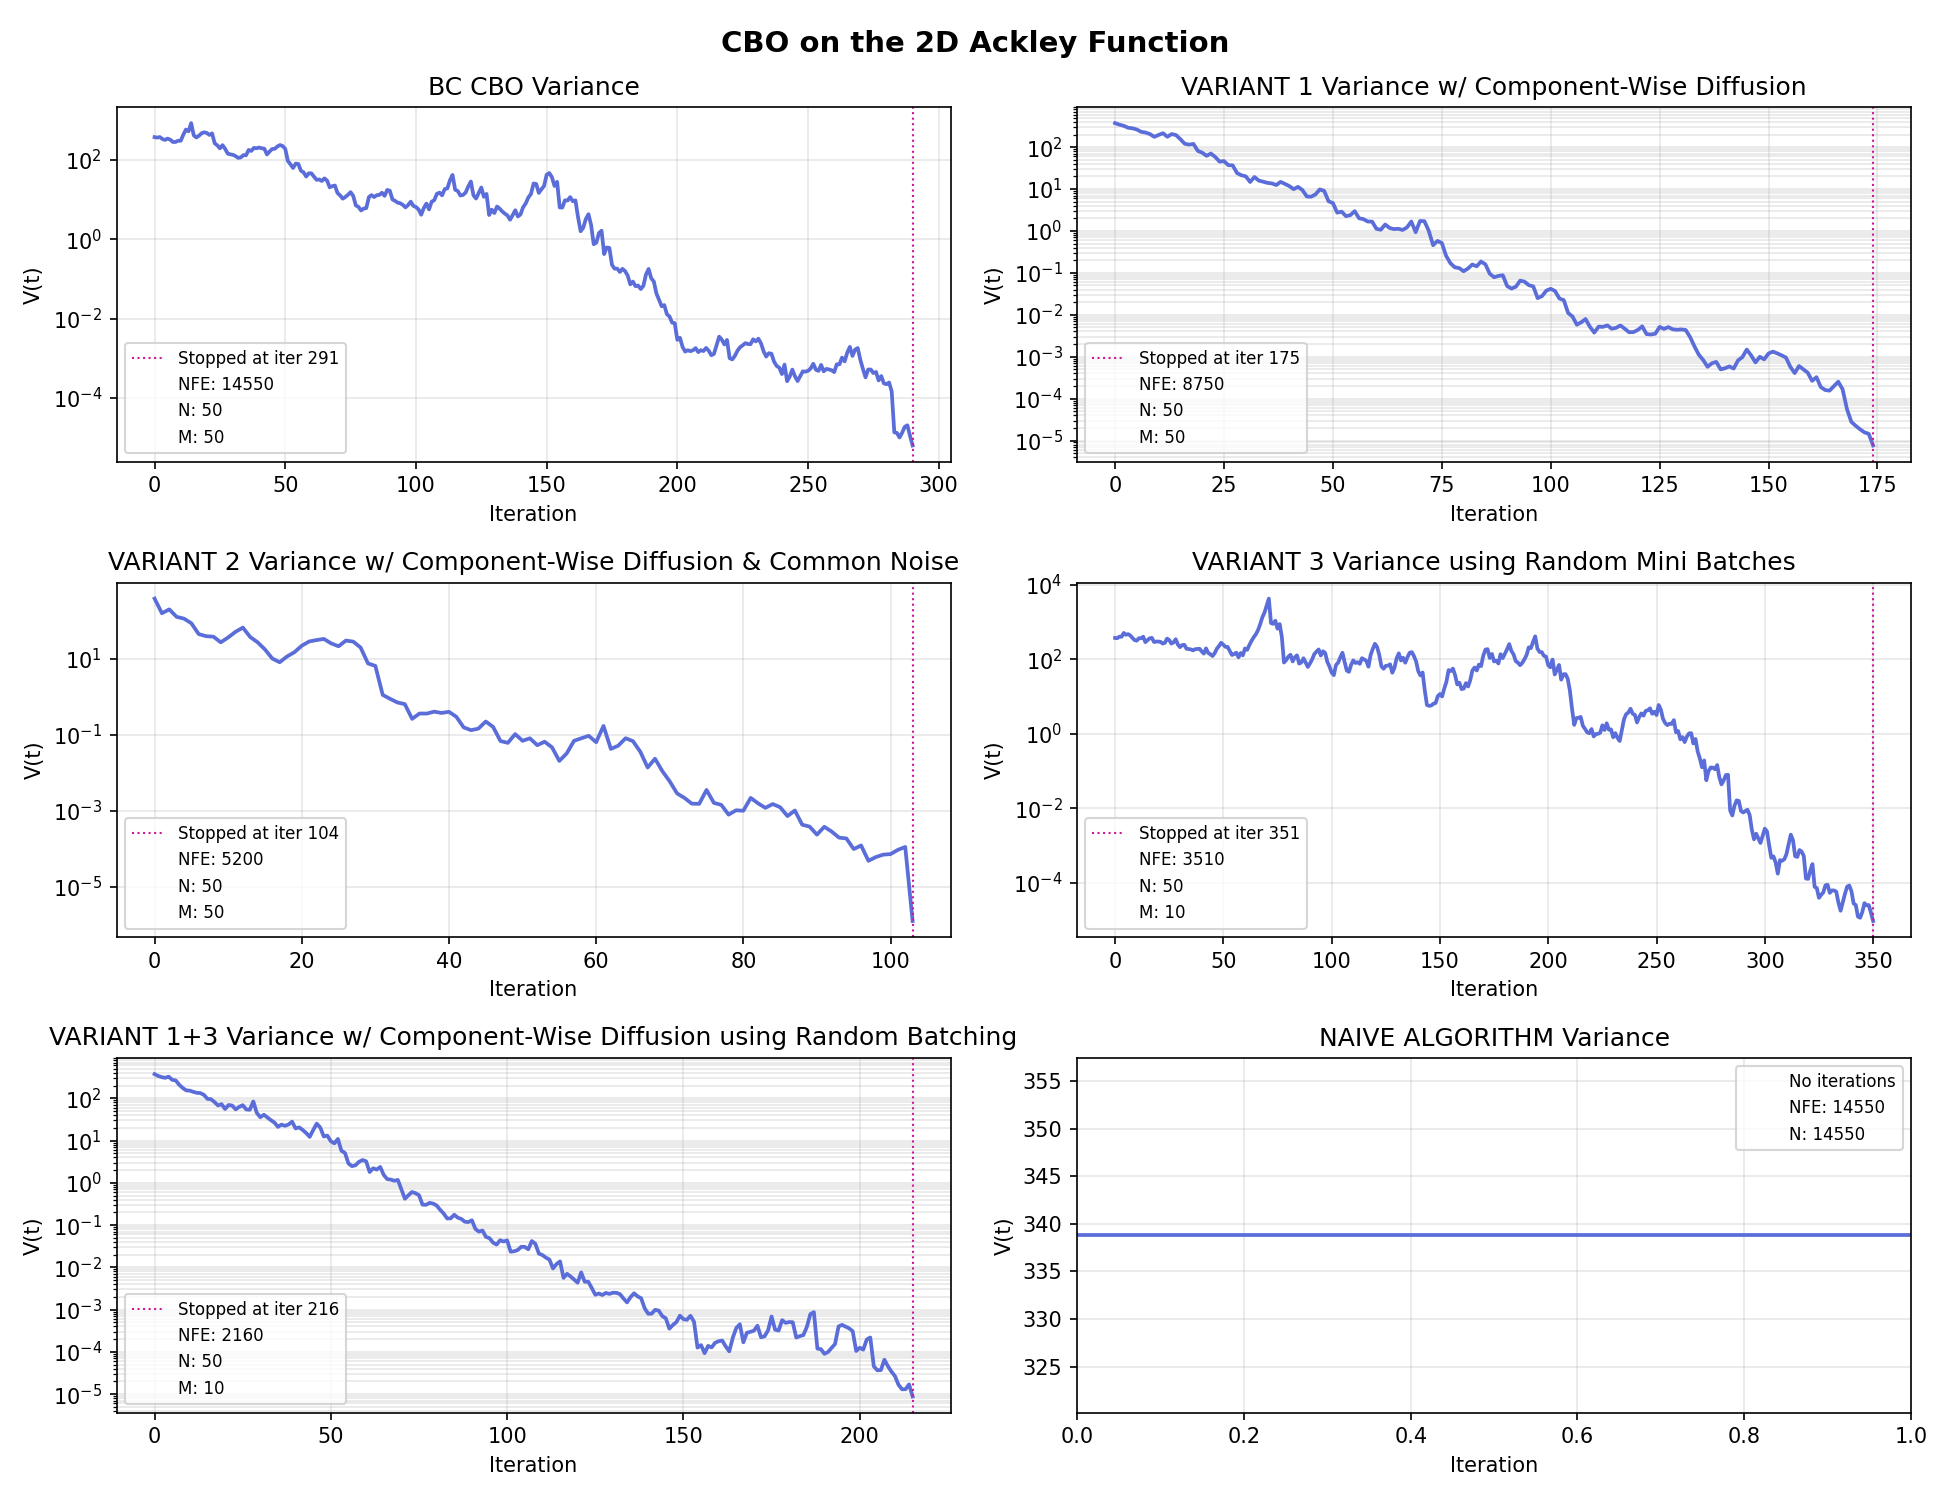
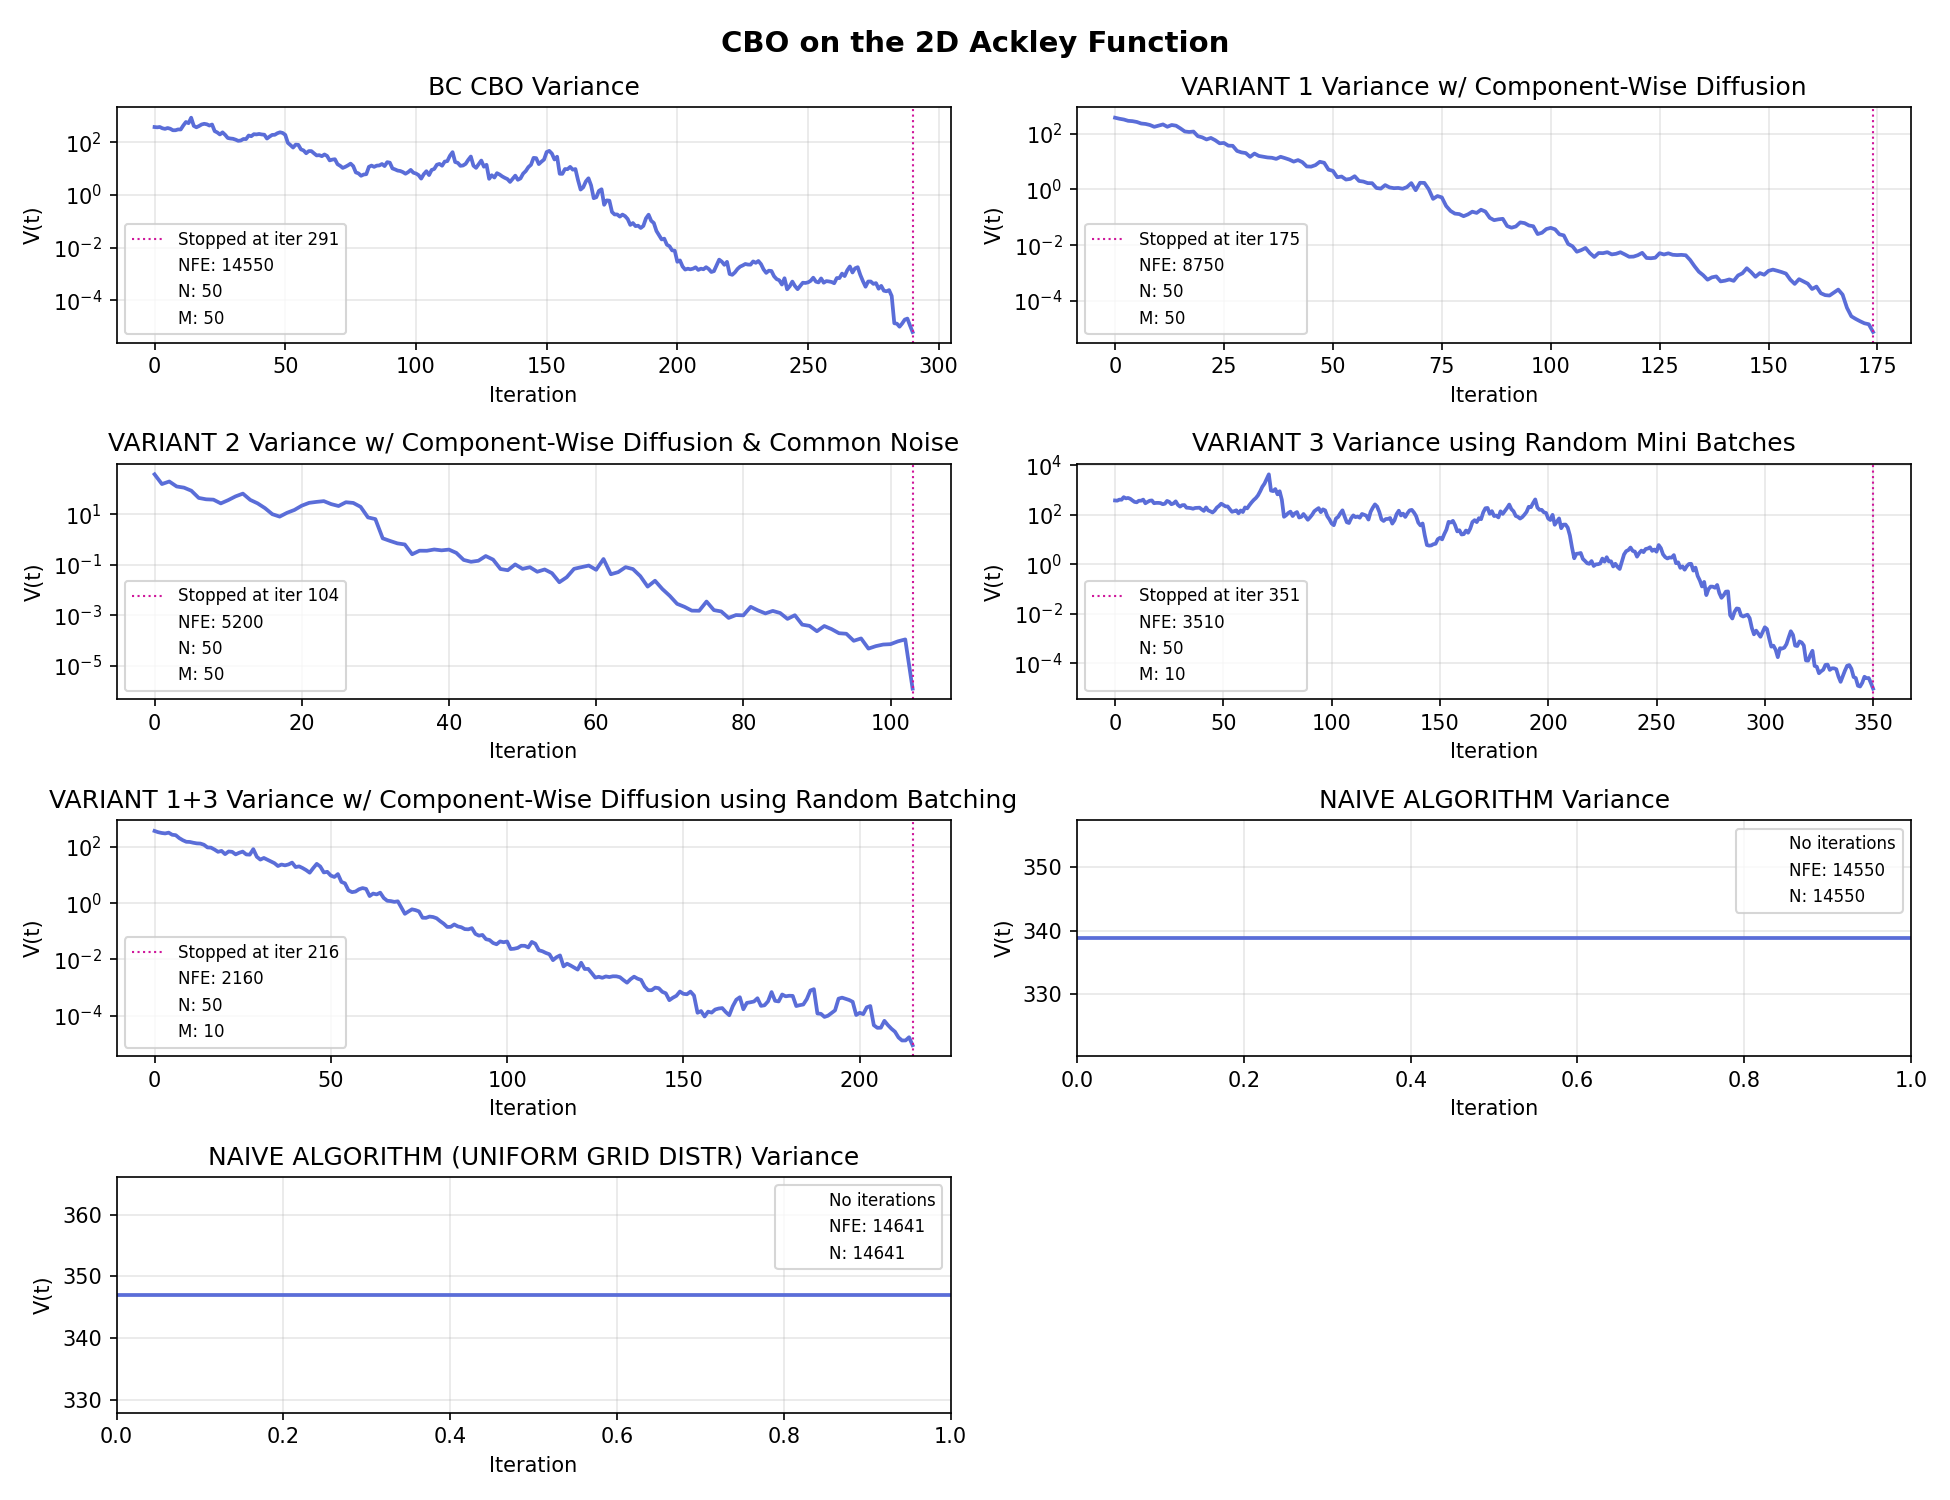
Naive Algorithm (uniform grid distribution) grid additions

diff --git a/bc_algorithms.py b/bc_algorithms.py
@@ -160,14 +160,36 @@ def cbo(f, d, domain=(-32,32), n_particles=50, lam=1.0, sigma=1.0, alpha=30.0, d
 
     return (x[best_idx], best_val_hist[-1], np.array(consensus_hist), np.array(particle_hist), np.array(obj_val_hist), np.array(best_val_hist), np.array(variance_hist))
 
-def naive(f, d, domain=(-32,32), n_particles=50):
+def naive(f, d, domain=(-32,32), n_particles=50, seed=0):
     _, _, consensus_hist, _, _, _, _ = cbo(f, d)
     n_iters = len(consensus_hist)
     NFE_comp_cost = n_particles * n_iters
 
-    rng = np.random.default_rng(0) # set up seeded random num generator
+    rng = np.random.default_rng(seed) # set up seeded random num generator
     lo, hi = domain
     x = rng.uniform(lo, hi, size=(NFE_comp_cost, d)) # x = (x_1, x_2, ..., x_n)
+
+    f_vals = f(x)
+    best_idx = np.argmin(f_vals) # index of lowest f val
+
+    # Variance history
+    mean = x.mean(axis=0) # expectation: average all part points
+    v = 0.5*np.mean(np.sum((x-mean)**2, axis=1)) # variance
+
+    # return best part pos, best obj val, num of iterations
+    return (x[best_idx], f_vals[best_idx], np.array(x), np.array(f_vals), len(f_vals), v)
+
+def naive_uniform(f, d, domain=(-32,32), n_particles=50):
+    _, _, consensus_hist, _, _, _, _ = cbo(f, d)
+    n_iters = len(consensus_hist)
+    NFE_comp_cost = n_particles * n_iters
+
+    # generate uniform grid of points
+    lo, hi = domain
+    pts_per_dim = round(NFE_comp_cost ** (1/d)) # same num of pts on each axis
+    lin = np.linspace(lo, hi, pts_per_dim)
+    mesh = np.meshgrid(*([lin] * d))
+    x = np.stack([m.ravel() for m in mesh], axis=1) # shape: (pts_per_dim**d, d)
 
     f_vals = f(x)
     best_idx = np.argmin(f_vals) # index of lowest f val
@@ -194,6 +216,17 @@ if __name__ == "__main__": # runs when this is the main file of this execution
     print("NAIVE ALGORITHM RESULTS")
 
     best_x_naive, best_val_naive, x_positions_naive, f_vals_naive, n_part_naive, variance = naive(ackley, d=2)
+
+    print(f"Best x position found: {best_x_naive}")
+    print(f"Best f(x): {best_val_naive:.6f}")
+    print(f"num particles: {len(x_positions_naive)})")
+    print(f"Variance: {variance}")
+    print("True minimum: f(0,0) = 0")
+
+    print("---------------------------------------")
+    print("NAIVE ALGORITHM (UNIFORM DISTR) RESULTS")
+
+    best_x_naive, best_val_naive, x_positions_naive, f_vals_naive, n_part_naive, variance = naive_uniform(ackley, d=2)
 
     print(f"Best x position found: {best_x_naive}")
     print(f"Best f(x): {best_val_naive:.6f}")

diff --git a/trajectories_plot.py b/trajectories_plot.py
@@ -3,7 +3,7 @@ import matplotlib.pyplot as plt
 import matplotlib.colors as mcolors
 import matplotlib.patches as mpatches
 
-from bc_algorithms import ackley, cbo, naive
+from bc_algorithms import ackley, cbo, naive, naive_uniform
 from variant_1 import component_wise_diff
 from variant_2 import common_noise
 from variant_3 import random_mini_batch
@@ -53,12 +53,12 @@ def particle_hist(ax, particle_hist, m_size=50):
     ax.legend(handles=handles + [info1, info2], fontsize=8, loc="upper right")
 
 # NAIVE POINT PLOT
-def naive_part_plot(ax):
+def naive_part_plot(ax, f=naive):
     _, _, Z = grid(res=300)
     # draw 2d array heatmap
     ax.imshow(Z, extent=[-32, 32, -32, 32], origin="lower", cmap="Blues", aspect="equal", norm=mcolors.PowerNorm(gamma=0.4,vmin=0,vmax=22))
 
-    best_x, best_val, x_positions, f_vals, n_particles, variance = naive(ackley, d=2)
+    best_x, best_val, x_positions, f_vals, n_particles, variance = f(ackley, d=2)
     ax.scatter(x_positions[:,0], x_positions[:,1], color="orange", s=0.5) # plot individual points
     ax.scatter(best_x[0], best_x[1], color="red", s=12, label="min f(x)")
 
@@ -74,16 +74,17 @@ def naive_part_plot(ax):
 
 def main():
     # create blank canvas
-    fig = plt.figure(figsize=(13,10))
+    fig = plt.figure(figsize=(15,15))
     fig.suptitle("CBO on the 2D Ackley Function", fontsize=14, fontweight="bold")
 
     # 2x2 figure panels
-    ax1 = fig.add_subplot(3,2,1)
-    ax2 = fig.add_subplot(3,2,2)
-    ax3 = fig.add_subplot(3,2,3)
-    ax4 = fig.add_subplot(3,2,4)
-    ax5 = fig.add_subplot(3,2,5)
-    ax6 = fig.add_subplot(3,2,6)
+    ax1 = fig.add_subplot(4,2,1)
+    ax2 = fig.add_subplot(4,2,2)
+    ax3 = fig.add_subplot(4,2,3)
+    ax4 = fig.add_subplot(4,2,4)
+    ax5 = fig.add_subplot(4,2,5)
+    ax6 = fig.add_subplot(4,2,6)
+    ax7 = fig.add_subplot(4,2,7)
 
     # plot graphs
 
@@ -105,6 +106,8 @@ def main():
     ax5.set_title("VARIANT 1+3: Particle Trajectories w/ Component-Wise Diffusion using Random Batching")
 
     naive_part_plot(ax6)
+    naive_part_plot(ax7, f=naive_uniform)
+    ax7.set_title("NAIVE ALGORITHM (UNIFORM GRID DISTR) Particle Positions")
 
     plt.tight_layout()
     plt.savefig("trajectories_plot.png", dpi=150)

diff --git a/variance_plot.py b/variance_plot.py
@@ -3,7 +3,7 @@ import matplotlib.pyplot as plt
 import matplotlib.colors as mcolors
 import matplotlib.patches as mpatches
 
-from bc_algorithms import ackley, cbo, naive
+from bc_algorithms import ackley, cbo, naive, naive_uniform
 from variant_1 import component_wise_diff
 from variant_2 import common_noise
 from variant_3 import random_mini_batch
@@ -28,8 +28,8 @@ def variance_hist(ax, var_hist, n_iters, n_particles=50, m_size=50):
     info3 = mpatches.Patch(color='none', label=f'M: {m_size}')
     ax.legend(handles=handles + [info1, info2, info3], fontsize=8)
 
-def variance_naive(ax):
-    best_x, best_val, x_positions, f_vals, n_particles, variance = naive(ackley, d=2)
+def variance_naive(ax, f=naive):
+    best_x, best_val, x_positions, f_vals, n_particles, variance = f(ackley, d=2)
     # draw horizontal line to compare best_val to other graphs
     ax.axhline(y=variance, color="#5A6DD8", linestyle="-", linewidth=1.8, label=(""))
     ax.set_title("NAIVE ALGORITHM Variance")
@@ -49,12 +49,13 @@ def main():
     fig.suptitle("CBO on the 2D Ackley Function", fontsize=14, fontweight="bold")
 
     # 2x2 figure panels
-    ax1 = fig.add_subplot(3,2,1)
-    ax2 = fig.add_subplot(3,2,2)
-    ax3 = fig.add_subplot(3,2,3)
-    ax4 = fig.add_subplot(3,2,4)
-    ax5 = fig.add_subplot(3,2,5)
-    ax6 = fig.add_subplot(3,2,6)
+    ax1 = fig.add_subplot(4,2,1)
+    ax2 = fig.add_subplot(4,2,2)
+    ax3 = fig.add_subplot(4,2,3)
+    ax4 = fig.add_subplot(4,2,4)
+    ax5 = fig.add_subplot(4,2,5)
+    ax6 = fig.add_subplot(4,2,6)
+    ax7 = fig.add_subplot(4,2,7)
 
     # plot graphs
     _, _, _, _, _, _, cbo_var_hist = cbo(ackley, d=2, seed=0)
@@ -76,6 +77,8 @@ def main():
     ax5.set_title("VARIANT 1+3 Variance w/ Component-Wise Diffusion using Random Batching")
 
     variance_naive(ax6)
+    variance_naive(ax7, f=naive_uniform)
+    ax7.set_title("NAIVE ALGORITHM (UNIFORM GRID DISTR) Variance")
 
     plt.tight_layout()
     plt.savefig("variance_plot.png", dpi=150)

diff --git a/obj_val_plot.py b/obj_val_plot.py
@@ -3,7 +3,7 @@ import matplotlib.pyplot as plt
 import matplotlib.colors as mcolors
 import matplotlib.patches as mpatches
 
-from bc_algorithms import ackley, cbo, naive
+from bc_algorithms import ackley, cbo, naive, naive_uniform
 from variant_1 import component_wise_diff
 from variant_2 import common_noise
 from variant_3 import random_mini_batch
@@ -67,8 +67,8 @@ def consensus_hist(ax, consensus_hist, n_particles=50, m_size=50):
     info3 = mpatches.Patch(color='none', label=f'M: {m_size}')
     ax.legend(handles=handles + [info1, info2, info3], fontsize=8)
 
-def obj_val_naive(ax):
-    best_x, best_val, x_positions, f_vals, n_particles, variance = naive(ackley, d=2)
+def obj_val_naive(ax, f=naive):
+    best_x, best_val, x_positions, f_vals, n_particles, variance = f(ackley, d=2)
     # draw horizontal line to compare best_val to other graphs
     ax.axhline(y=best_val, color="#1D9E75", linestyle="-", linewidth=1.4, label=(f"Best f val: {best_val:.4f}"))
     ax.set_title("NAIVE ALGORITHM Best f(x)")
@@ -105,6 +105,7 @@ def main():
     ax14 = fig.add_subplot(6,3,14)
     ax15 = fig.add_subplot(6,3,15)
     ax16 = fig.add_subplot(6,3,16)
+    ax17 = fig.add_subplot(6,3,17)
 
 
     _, cbo_best_val, cbo_consensus_hist, _, cbo_obj_val_hist, cbo_best_val_hist, _ = cbo(ackley, d=2, seed=0)
@@ -126,6 +127,9 @@ def main():
     best_obj_val_hist(ax13, var13_best_val_hist, var13_best_val, m_size=10)
     ax13.set_title("VARIANT 1+3 Running Best f(x) over iterations")
     obj_val_naive(ax16)
+    obj_val_naive(ax17, f=naive_uniform)
+    ax17.set_title("NAIVE ALGORITHM (UNIFORM GRID DISTR) Best f(x)")
+
 
     # obj value history
     obj_val_hist(ax2, cbo_obj_val_hist)
